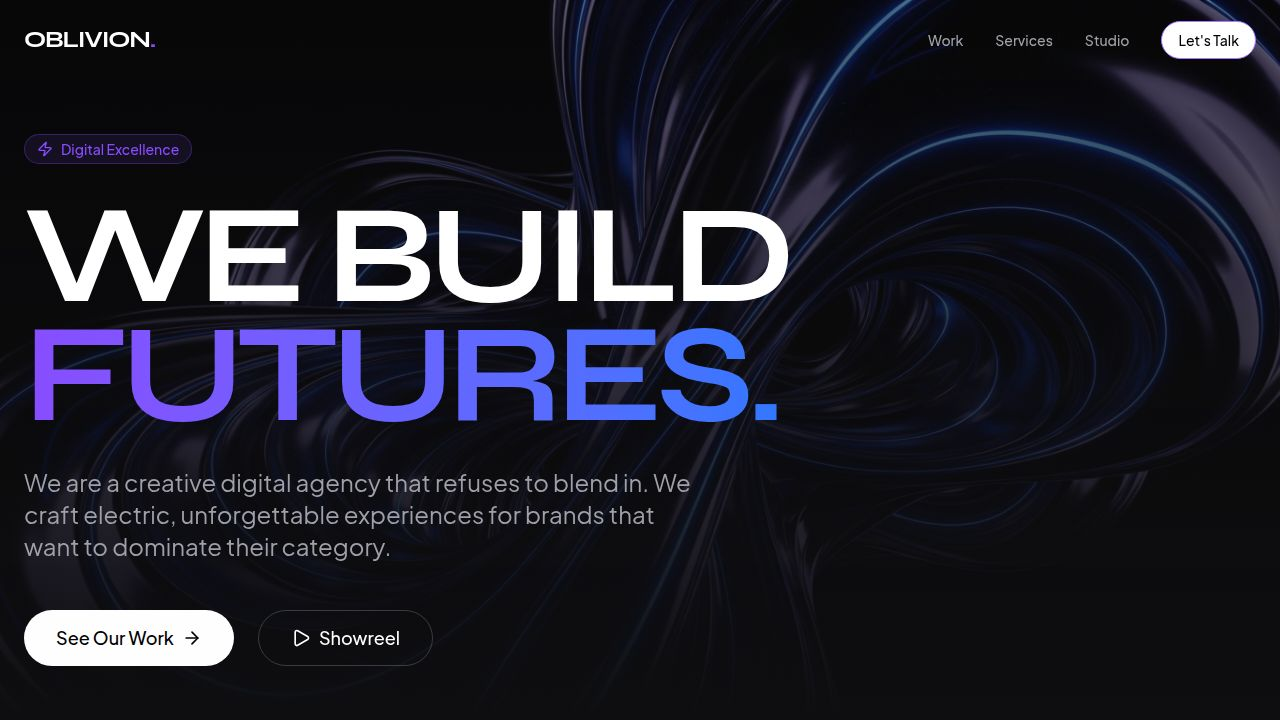
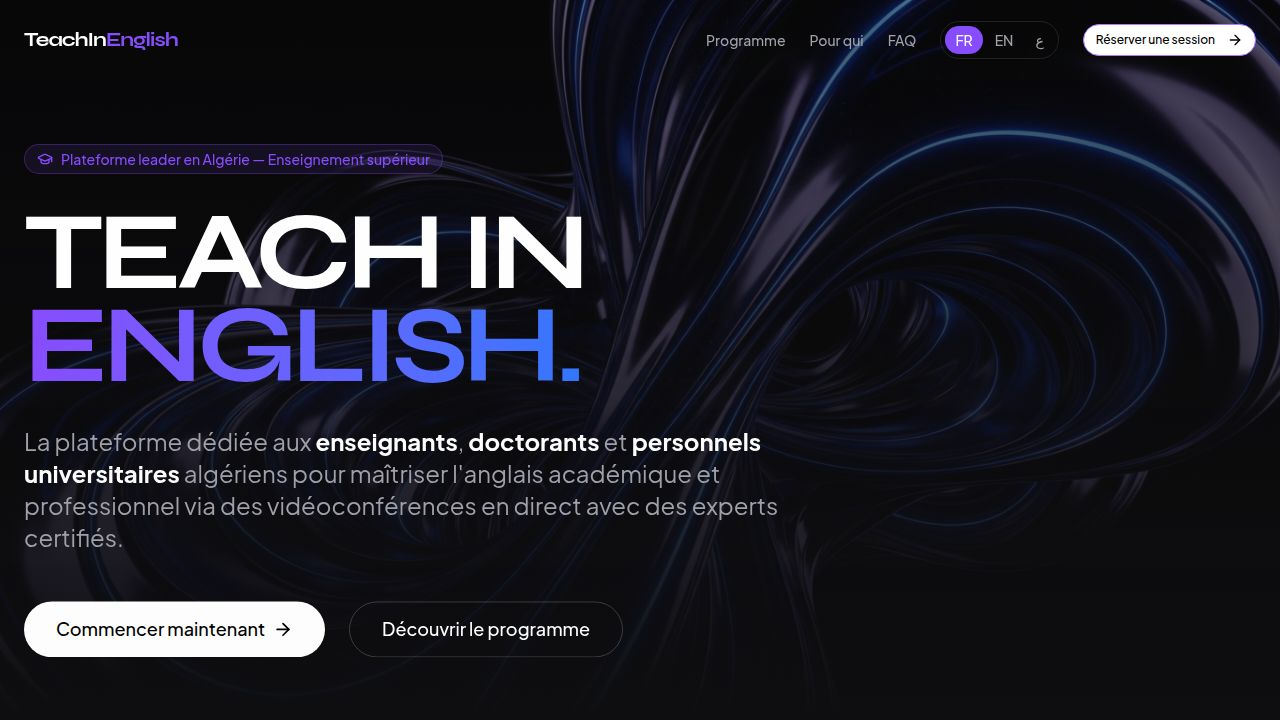
Update university image and expand service coverage statistics
Replace existing studio image with an AI-generated image of an Algerian university setting and update the number of covered regions from 47 to 58 across all languages.

Replit-Commit-Author: Agent
Replit-Commit-Session-Id: 13ab0fab-f9f3-4819-931e-3c1e1563916a
Replit-Commit-Checkpoint-Type: full_checkpoint
Replit-Commit-Event-Id: 4e16f9f3-863a-43e4-aa2b-1d738bef7cb2
Replit-Commit-Screenshot-Url: https://storage.googleapis.com/screenshot-production-us-central1/a8d176c8-ed2a-48c8-90ff-9c8bf0cfd607/13ab0fab-f9f3-4819-931e-3c1e1563916a/Jx4rYo8
Replit-Helium-Checkpoint-Created: true

diff --git a/artifacts/landing-page/src/contexts/language-context.tsx b/artifacts/landing-page/src/contexts/language-context.tsx
@@ -32,7 +32,7 @@ export const translations = {
       p2: "Chaque session vidéo est menée par un formateur expert en anglais académique, adapté à votre discipline et à votre niveau.",
       stat1Val: "3 200+",
       stat1Label: "Inscrits attendus",
-      stat2Val: "47",
+      stat2Val: "58",
       stat2Label: "Wilayas couvertes",
       imgAlt: "Session de formation en vidéoconférence",
     },
@@ -106,7 +106,7 @@ export const translations = {
       p2: "Every video session is led by an expert trainer in academic English, adapted to your discipline and your level.",
       stat1Val: "3,200+",
       stat1Label: "Expected enrolments",
-      stat2Val: "47",
+      stat2Val: "58",
       stat2Label: "Wilayas covered",
       imgAlt: "Live video conference training session",
     },
@@ -180,7 +180,7 @@ export const translations = {
       p2: "كل جلسة فيديو يُديرها مدرب متخصص في الإنجليزية الأكاديمية، مكيَّفة مع تخصصك ومستواك.",
       stat1Val: "+3200",
       stat1Label: "تسجيل مستهدف",
-      stat2Val: "47",
+      stat2Val: "58",
       stat2Label: "ولاية مشمولة",
       imgAlt: "جلسة تدريبية عبر مؤتمر الفيديو",
     },